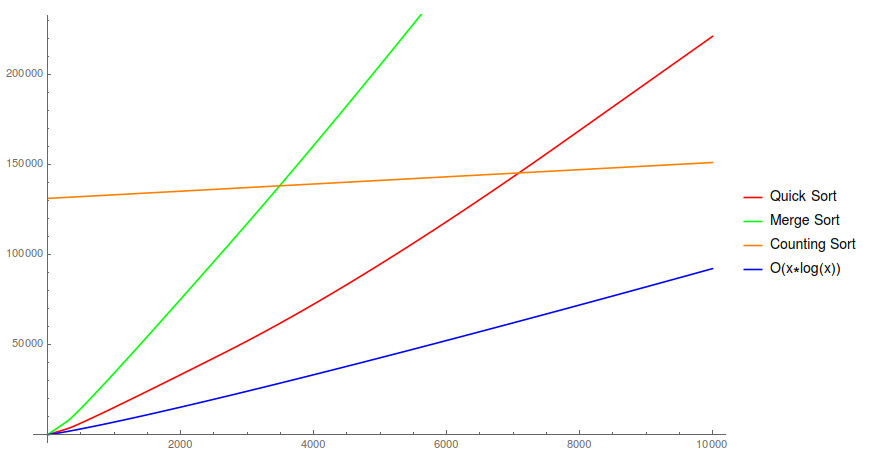
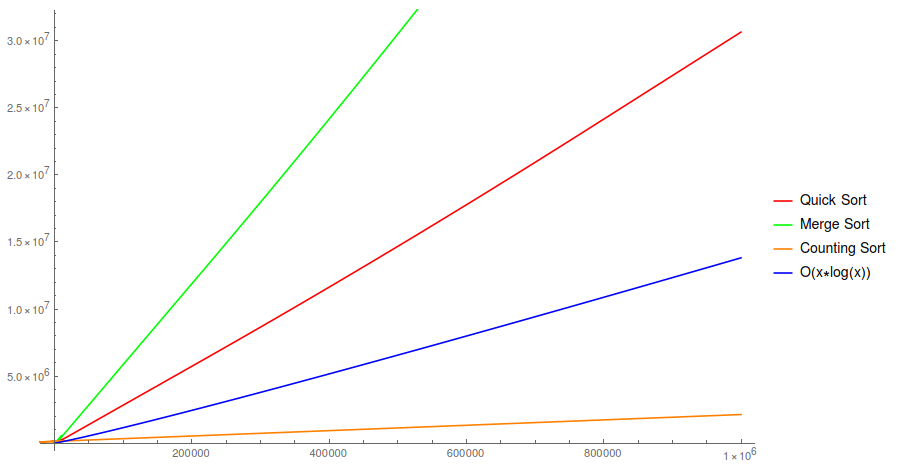
Пересчитал до массива в 1 000 000

diff --git a/ADS/Lesson 8/lesson8.c b/ADS/Lesson 8/lesson8.c
@@ -29,11 +29,11 @@
  *       Для Быстрой, слиянием и сортировки подсчётом:
  *
  *       Show[
- *           ListLinePlot[{{10, 46}, {100, 1000}, {1000, 15000}, {5000, 94500}, {10000, 221000}}, PlotStyle -> {Red}, InterpolationOrder -> 2,
+ *           ListLinePlot[{{10, 46}, {100, 1000}, {1000, 15000}, {5000, 94500}, {10000, 221000}, {500000, 14670000}, {1000000, 30648000}}, PlotStyle -> {Red}, InterpolationOrder -> 2,
  *                   PlotLegends -> LineLegend[{Red, Green, Orange, Blue},
  *                                             {"Quick Sort", "Merge Sort", "Counting Sort", "O(x*log(x))"}]],
- *           ListLinePlot[{{10, 138}, {100, 2400}, {1000, 34000}, {5000, 205000}, {10000, 440000}}, PlotStyle -> {Green}, InterpolationOrder -> 2],
- *           ListLinePlot[{{10, 131090}, {100, 131270}, {1000, 133070}, {5000, 141070}, {10000, 151000}}, PlotStyle -> {Orange}, InterpolationOrder -> 2],
+ *           ListLinePlot[{{10, 138}, {100, 2400}, {1000, 34000}, {5000, 205000}, {10000, 440000}, {500000, 30500000}, {1000000, 63850000}}, PlotStyle -> {Green}, InterpolationOrder -> 2],
+ *           ListLinePlot[{{10, 131090}, {100, 131270}, {1000, 133070}, {5000, 141070}, {10000, 151000}, {500000, 1131000}, {1000000, 2131000}}, PlotStyle -> {Orange}, InterpolationOrder -> 2],
  *           Plot[x*Log[x], {x, 0, 10000}, PlotStyle -> {Blue}]]
  *
  */
@@ -365,19 +365,19 @@ int main (int argc, const char * argv[]) {
 
     /* Проверка обычной Пузырьковой сортировки */
     // Перед началом инициализирую рабочий массив из базового
-    memcpy(sortingArray, basicArray, arraySize);
+    //memcpy(sortingArray, basicArray, arraySize);
 
-    printf("Simple bubble sort of %u-length array: %lu operations\n", arrayLength, SimpleBubbleSort(sortingArray, (size_t)arrayLength));
+    //printf("Simple bubble sort of %u-length array: %lu operations\n", arrayLength, SimpleBubbleSort(sortingArray, (size_t)arrayLength));
 
     /* Проверка оптимизированной пузырьковой сортировки */
-    memcpy(sortingArray, basicArray, arraySize);
+    //memcpy(sortingArray, basicArray, arraySize);
 
-    printf("Optimized bubble sort of %u-length array: %lu operations\n", arrayLength, OptBubbleSort(sortingArray, (size_t)arrayLength));
+    //printf("Optimized bubble sort of %u-length array: %lu operations\n", arrayLength, OptBubbleSort(sortingArray, (size_t)arrayLength));
 
     /* Проверка шейкерной сортировки */
-    memcpy(sortingArray, basicArray, arraySize);
+   // memcpy(sortingArray, basicArray, arraySize);
 
-    printf("Shake sort of %u-length array: %lu operations\n", arrayLength, ShakeSort(sortingArray, (size_t)arrayLength));
+    //printf("Shake sort of %u-length array: %lu operations\n", arrayLength, ShakeSort(sortingArray, (size_t)arrayLength));
 
     /* Проверка сортировки подсчётом */
     memcpy(sortingArray, basicArray, arraySize);
